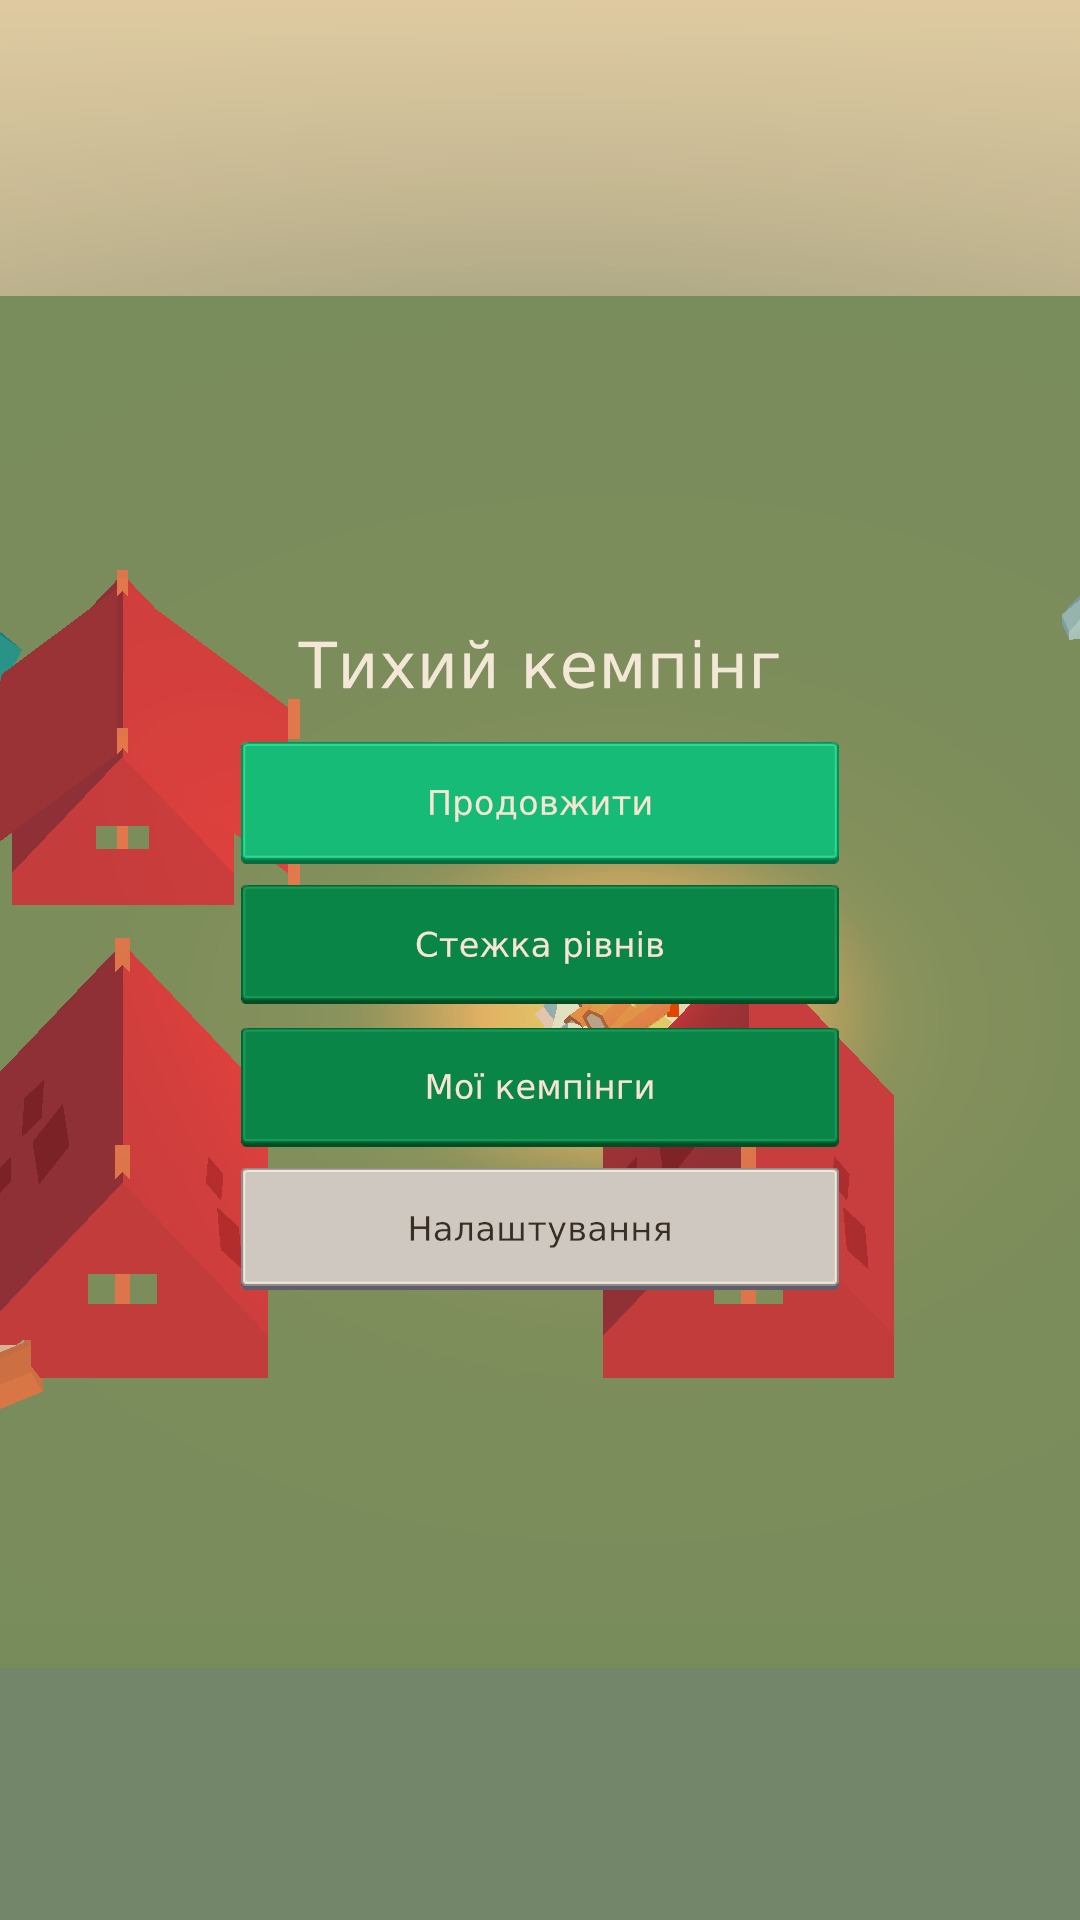
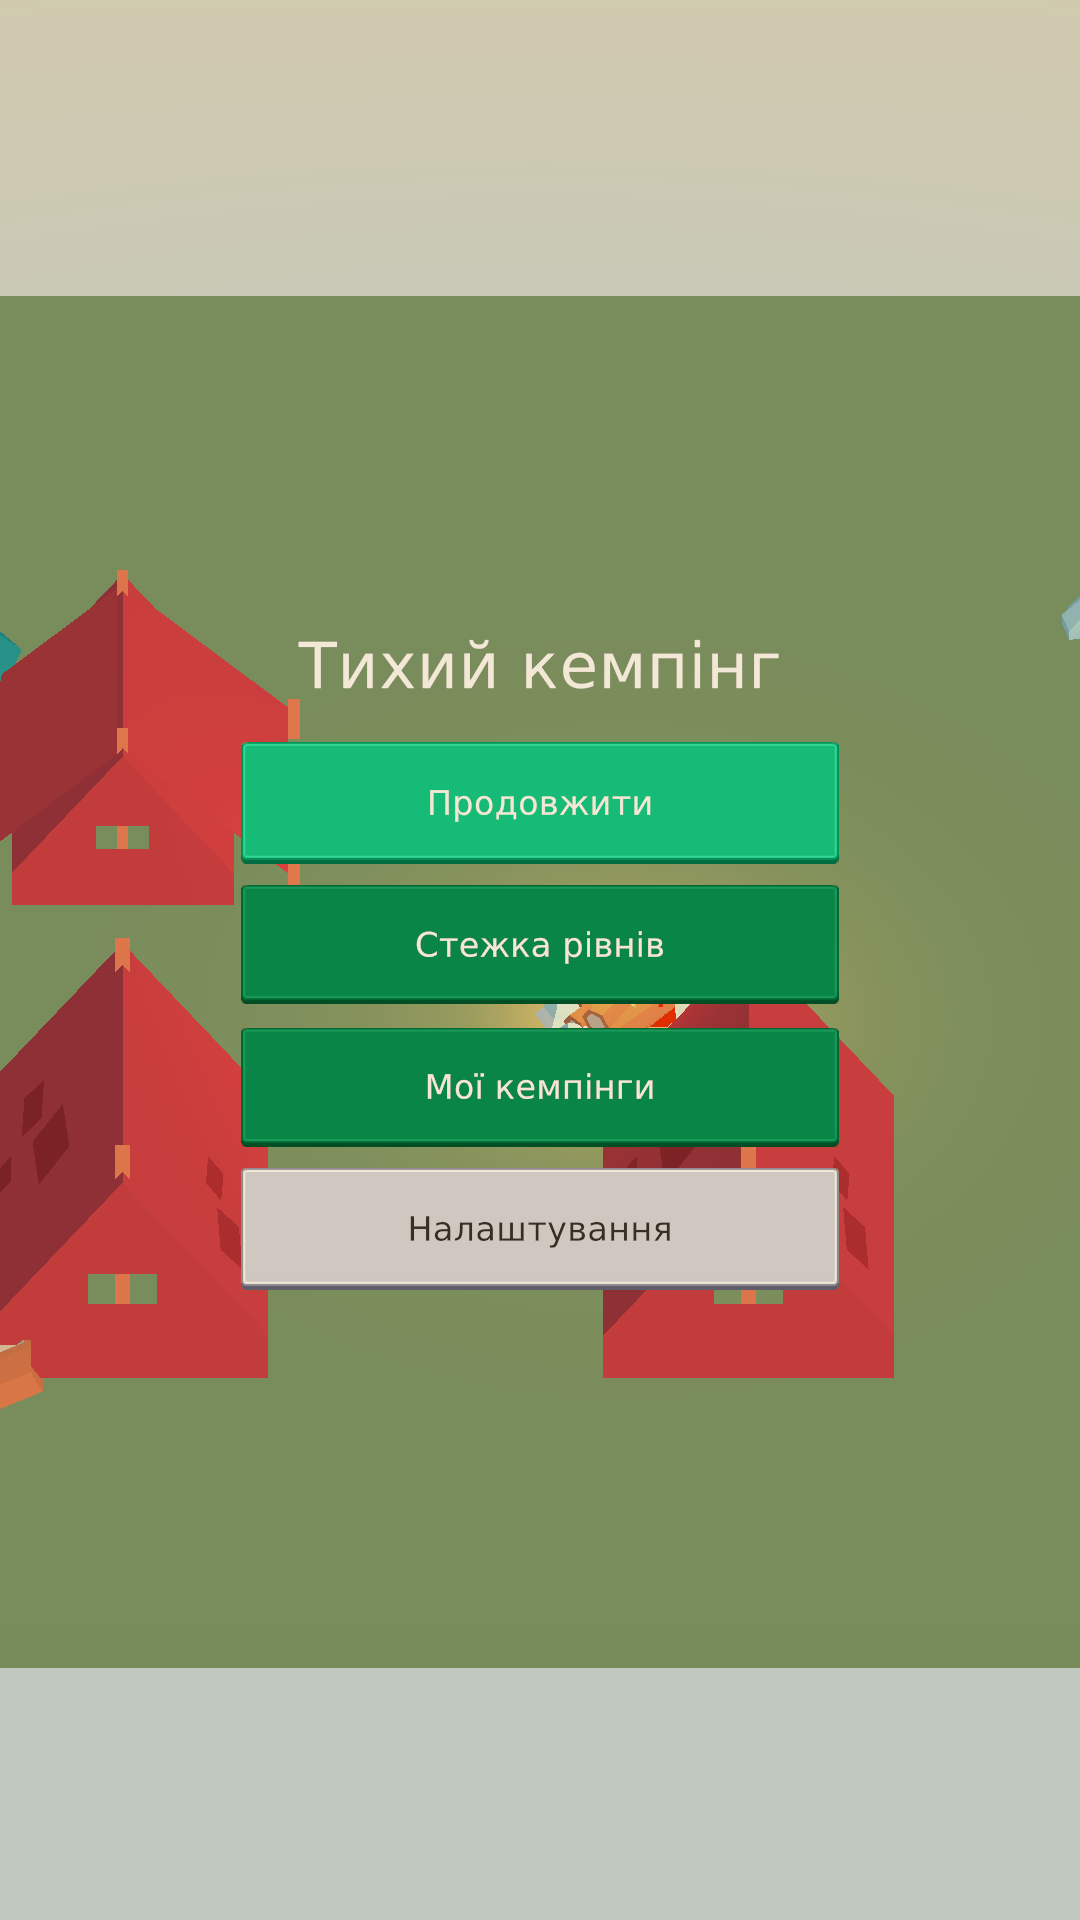
tests: witness layout + evening shot in screenshot capture
04_camp_day now commits the QC_TEST witness layout so the render shows
tents/door markers like the doc reference; 07_camp_evening solves the
level to capture the dusk preset, burning fire and completion panel.
Screenshots refreshed.

Generated with [Devin](https://devin.ai)

diff --git a/QuietCamp/Assets/QuietCamp/Tests/PlayMode/ScreenshotPlayModeTest.cs b/QuietCamp/Assets/QuietCamp/Tests/PlayMode/ScreenshotPlayModeTest.cs
@@ -51,6 +51,10 @@ namespace QuietCamp.Tests
             yield return WaitForActiveScene("Camp", 20f);
             yield return new WaitUntil(() => CampSceneHost.Current != null);
             yield return Settle(60);
+            // Commit the witness layout so the shot shows tents like the
+            // reference render (door markers, footprints, rotations).
+            CampSceneHost.Current.Session.DebugApplyWitness();
+            yield return Settle(40);
             var campMagenta = Shot(outDir, "04_camp_day");
 
             // Pause modal → shot; then in-game settings modal → shot.
@@ -62,8 +66,16 @@ namespace QuietCamp.Tests
             yield return Settle(30);
             var campSettingsMagenta = Shot(outDir, "06_camp_settings");
 
+            // Solving the level flips the scene to the evening preset —
+            // burning campfire, dusk light, completion panel.
+            ClickModalButton("SettingsPanel", "Btn_action_back");
+            yield return Settle(20);
+            CampSceneHost.Current.Session.Check();
+            yield return Settle(60);
+            var eveningMagenta = Shot(outDir, "07_camp_evening");
+
             var names = new[] { "01_main_menu", "02_menu_settings", "03_menu_levels",
-                "04_camp_day", "05_camp_pause", "06_camp_settings" };
+                "04_camp_day", "05_camp_pause", "06_camp_settings", "07_camp_evening" };
             foreach (var n in names)
                 Assert.IsTrue(File.Exists(System.IO.Path.Combine(outDir, n + ".png")),
                     "Missing screenshot " + n);
@@ -73,7 +85,8 @@ namespace QuietCamp.Tests
             {
                 ("menu", menuMagenta), ("settings", settingsMagenta),
                 ("levels", levelsMagenta), ("camp", campMagenta),
-                ("pause", pauseMagenta), ("camp settings", campSettingsMagenta)
+                ("pause", pauseMagenta), ("camp settings", campSettingsMagenta),
+                ("evening", eveningMagenta)
             };
             foreach (var m in mags)
                 Assert.Less(m.v, 0.02f, $"{m.name} screenshot is magenta — missing shader.");
